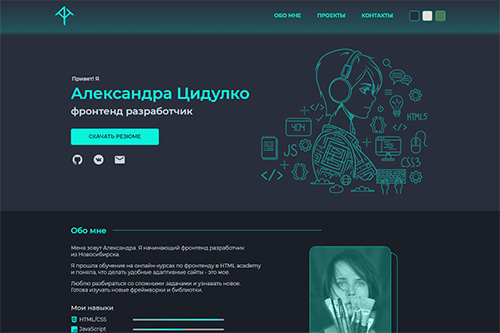
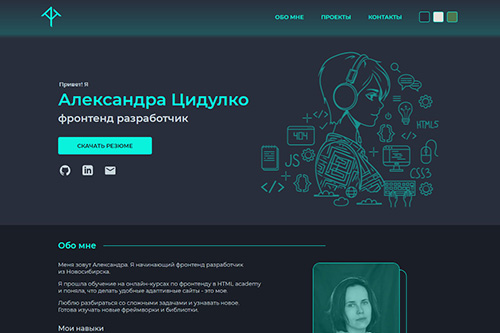
добавляет проект Supergym и меняет картинку у проекта портфолио

diff --git a/source/js/modules/projects-data.js b/source/js/modules/projects-data.js
@@ -1,5 +1,16 @@
 const PROJECTS = [
   {
+    title: 'Supergym',
+    labels: ['html-academy', 'html', 'javascript'],
+    image: 'img/projects/supergym.jpg',
+    alt: 'Сайт фитнес-зала в Омске.',
+    srcset: 'img/projects/supergym@2x.jpg 2x',
+    webp: 'img/projects/supergym.webp 1x, img/projects/supergym@2x.webp 2x',
+    website: 'https://sephellone.github.io/supergym/',
+    github: 'https://github.com/Sephellone/supergym'
+  },
+
+  {
     title: 'Antarctica',
     labels: ['html-academy', 'html', 'javascript'],
     image: 'img/projects/antarctica.jpg',
@@ -25,7 +36,7 @@ const PROJECTS = [
     title: 'Smart Device',
     labels: ['html-academy', 'html', 'javascript'],
     image: 'img/projects/smart-device.jpg',
-    alt: 'Сайт портфолио, на котором Вы сейчас находитесь.',
+    alt: 'Сайт магазина печатных плат.',
     srcset: 'img/projects/smart-device@2x.jpg 2x',
     webp: 'img/projects/smart-device.webp 1x, img/projects/smart-device@2x.webp 2x',
     website: 'https://sephellone.github.io/smartDevices/',
@@ -69,7 +80,7 @@ const PROJECTS = [
     title: 'Keksobooking',
     labels: ['html-academy', 'javascript'],
     image: 'img/projects/keksobooking.jpg',
-    alt: 'Сайт финансовой пирамиды для сбора средств на осуществление мечты. На скриншоте - главный экран сайта и слайдер активных проектов.',
+    alt: 'Сайт бронирования жилья в Токио.',
     srcset: 'img/projects/keksobooking@2x.jpg 2x',
     webp: 'img/projects/keksobooking.webp 1x, img/projects/keksobooking@2x.webp 2x',
     website: 'https://sephellone.github.io/2018629-keksobooking-27/',

diff --git a/source/about.html b/source/about.html
@@ -109,6 +109,7 @@
             <li class="stack__item">CSS3 (sass / scss)</li>
             <li class="stack__item">адаптивная верстка, кроссбраузерная верстка, БЭМ</li>
             <li class="stack__item">JavaScript (ES5 / ES6)</li>
+            <li class="stack__item">Gulp</li>
             <li class="stack__item">Git, GitHub</li>
             <li class="stack__item">Figma, Photoshop, Illustrator</li>
           </ul>
